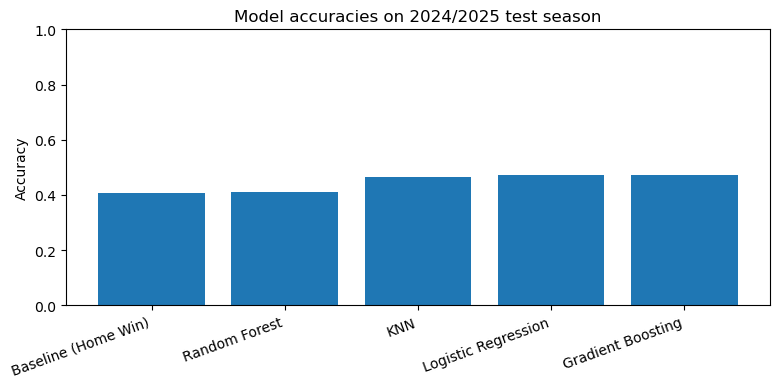
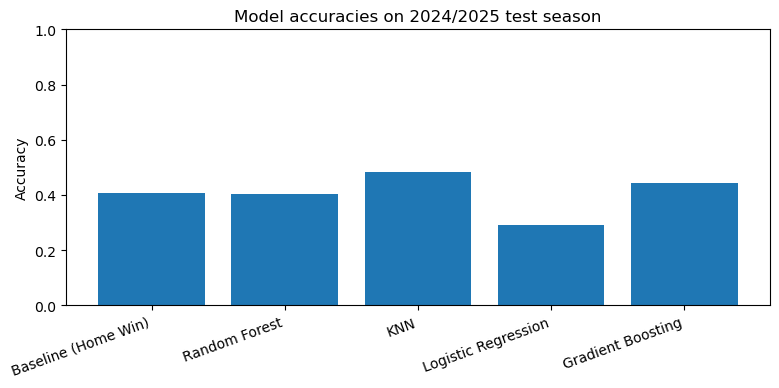
Re work of models.py to try to estimate better the draws

Changed region(s): [[0.4621, 0.433, 0.9551, 0.5876], [0.3081, 0.4948, 0.4313, 0.5258]]

diff --git a/src/models.py b/src/models.py
@@ -1,132 +1,219 @@
-"""Model definitions for Premier League match prediction."""
+"""
+Model definitions for Premier League match prediction.
 
-from typing import Any
+Objectif principal :
+- Garder une bonne accuracy globale
+- Mieux prendre en compte la classe 1 = "draw" (match nul)
+
+Stratégies :
+- class_weight pour RF & Logistic Regression (on booste les nuls)
+- léger oversampling des nuls pour Gradient Boosting
+- KNN avec standardisation + pondération par la distance
+"""
+
+from __future__ import annotations
+
+from collections import Counter
+from typing import Dict, Tuple
 
 import numpy as np
 from sklearn.ensemble import RandomForestClassifier, GradientBoostingClassifier
 from sklearn.linear_model import LogisticRegression
 from sklearn.neighbors import KNeighborsClassifier
+from sklearn.pipeline import Pipeline
+from sklearn.preprocessing import StandardScaler
+
+# -------------------------------------------------------------------
+# Hyperparamètres globaux
+# -------------------------------------------------------------------
+RANDOM_STATE = 42
+
+# facteur pour sur-pondérer les nuls (classe 1)
+# 1.0 = rien de spécial, 1.5–2.0 = on donne plus de poids aux nuls
+DRAW_BOOST = 1.8
 
 
+# -------------------------------------------------------------------
+# Utilitaires : class weights & oversampling des nuls
+# -------------------------------------------------------------------
+def compute_class_weights(y_train: np.ndarray, draw_boost: float = DRAW_BOOST) -> Dict[int, float]:
+    """
+    Calcule des poids de classe "balanced" puis sur-pondère la classe 1 (draw).
+
+    Retourne un dict du type {0: w_away, 1: w_draw, 2: w_home}.
+    """
+    counter = Counter(y_train)
+    classes = sorted(counter.keys())
+    n_classes = len(classes)
+    n_samples = len(y_train)
+
+    # balanced : N / (k * n_c)
+    weights: Dict[int, float] = {}
+    for c in classes:
+        weights[c] = n_samples / (n_classes * counter[c])
+
+    # on booste un peu les nuls
+    if 1 in weights:
+        weights[1] *= draw_boost
+
+    return weights
+
+
+def oversample_draws(
+    X: np.ndarray,
+    y: np.ndarray,
+    factor: float = 1.5,
+    random_state: int = RANDOM_STATE,
+) -> Tuple[np.ndarray, np.ndarray]:
+    """
+    Duplique aléatoirement des matchs nuls pour que cette classe soit un peu plus présente.
+
+    factor = 1.5 => on ajoute ~50 % de matchs nuls en plus.
+    Si y contient très peu de nuls, l'effet est plus marqué.
+    """
+    rng = np.random.default_rng(random_state)
+
+    draw_mask = (y == 1)
+    n_draws = int(draw_mask.sum())
+    if n_draws == 0 or factor <= 1.0:
+        return X, y
+
+    n_extra = int((factor - 1.0) * n_draws)
+    if n_extra <= 0:
+        return X, y
+
+    X_draw = X[draw_mask]
+    y_draw = y[draw_mask]
+
+    idx = rng.integers(low=0, high=n_draws, size=n_extra, endpoint=False)
+    X_extra = X_draw[idx]
+    y_extra = y_draw[idx]
+
+    X_balanced = np.vstack([X, X_extra])
+    y_balanced = np.concatenate([y, y_extra])
+
+    return X_balanced, y_balanced
+
+
+# -------------------------------------------------------------------
+# 1. Random Forest
+# -------------------------------------------------------------------
 def train_random_forest(
     X_train: np.ndarray,
     y_train: np.ndarray,
-    random_state: int = 42,
+    random_state: int = RANDOM_STATE,
 ) -> RandomForestClassifier:
     """
-    Train a Random Forest classifier on the training data.
+    Train a Random Forest classifier.
 
-    Parameters
-    ----------
-    X_train : np.ndarray
-        Matrix of training features (n_samples, n_features).
-    y_train : np.ndarray
-        Training labels (result_code: 0/1/2).
-    random_state : int
-        Seed for reproducibility.
-
-    Returns
-    -------
-    model : RandomForestClassifier
-        Fitted RandomForest model.
+    On utilise class_weight pour mieux prendre en compte la classe "draw".
     """
+    class_weight = compute_class_weights(y_train)
+
     model = RandomForestClassifier(
-        n_estimators=200,   # number of trees
-        max_depth=None,    # let trees grow fully
+        n_estimators=300,
+        max_depth=None,
+        min_samples_split=4,
+        min_samples_leaf=2,
         random_state=random_state,
-        n_jobs=-1,         # use all CPU cores
+        n_jobs=-1,
+        class_weight=class_weight,
     )
     model.fit(X_train, y_train)
     return model
 
 
+# -------------------------------------------------------------------
+# 2. KNN
+# -------------------------------------------------------------------
 def train_knn(
     X_train: np.ndarray,
     y_train: np.ndarray,
-    n_neighbors: int = 15,
-) -> KNeighborsClassifier:
+    n_neighbors: int = 25,
+) -> Pipeline:
     """
     Train a K-Nearest Neighbors classifier.
 
-    Parameters
-    ----------
-    X_train : np.ndarray
-        Training features.
-    y_train : np.ndarray
-        Training labels.
-    n_neighbors : int
-        Number of neighbours to use in KNN.
-
-    Returns
-    -------
-    model : KNeighborsClassifier
-        Fitted KNN model.
+    - Standardisation des features
+    - weights="distance" : les voisins proches comptent plus que les lointains
     """
-    model = KNeighborsClassifier(n_neighbors=n_neighbors)
+    model = Pipeline(
+        steps=[
+            ("scaler", StandardScaler()),
+            (
+                "knn",
+                KNeighborsClassifier(
+                    n_neighbors=n_neighbors,
+                    weights="distance",
+                    metric="minkowski",
+                    p=2,
+                ),
+            ),
+        ]
+    )
     model.fit(X_train, y_train)
     return model
 
 
+# -------------------------------------------------------------------
+# 3. Logistic Regression
+# -------------------------------------------------------------------
 def train_logistic_regression(
     X_train: np.ndarray,
     y_train: np.ndarray,
     max_iter: int = 1000,
-    random_state: int = 42,
-) -> LogisticRegression:
+    random_state: int = RANDOM_STATE,
+) -> Pipeline:
     """
-    Train a multinomial Logistic Regression classifier.
+    Multinomial Logistic Regression avec class_weight et standardisation.
 
-    We use multi_class='multinomial' because we have 3 classes:
-    away win (0), draw (1), home win (2).
+    On donne plus de poids à la classe 1 (draw) via compute_class_weights.
     """
-    model = LogisticRegression(
-        max_iter=max_iter,
-        multi_class="multinomial",
-        random_state=random_state,
+    class_weight = compute_class_weights(y_train)
+
+    model = Pipeline(
+        steps=[
+            ("scaler", StandardScaler()),
+            (
+                "logreg",
+                LogisticRegression(
+                    max_iter=max_iter,
+                    multi_class="multinomial",
+                    solver="lbfgs",
+                    class_weight=class_weight,
+                    random_state=random_state,
+                ),
+            ),
+        ]
     )
     model.fit(X_train, y_train)
     return model
 
 
+# -------------------------------------------------------------------
+# 4. Gradient Boosting
+# -------------------------------------------------------------------
 def train_gradient_boosting(
     X_train: np.ndarray,
     y_train: np.ndarray,
-    n_estimators: int = 200,
+    n_estimators: int = 300,
     learning_rate: float = 0.05,
     max_depth: int = 3,
-    random_state: int = 42,
+    random_state: int = RANDOM_STATE,
 ) -> GradientBoostingClassifier:
     """
     Train a Gradient Boosting classifier.
 
-    This is our "nonlinear" model alternative to Random Forest.
-
-    Parameters
-    ----------
-    X_train : np.ndarray
-        Training features.
-    y_train : np.ndarray
-        Training labels.
-    n_estimators : int
-        Number of boosting stages (trees).
-    learning_rate : float
-        Shrinks the contribution of each tree.
-    max_depth : int
-        Maximum depth of individual trees.
-    random_state : int
-        Seed for reproducibility.
-
-    Returns
-    -------
-    model : GradientBoostingClassifier
-        Fitted Gradient Boosting model.
+    Sklearn GradientBoostingClassifier ne gère pas class_weight, donc on fait
+    un léger oversampling des matchs nuls avant l'entraînement.
     """
+    X_balanced, y_balanced = oversample_draws(X_train, y_train, factor=1.6)
+
     model = GradientBoostingClassifier(
         n_estimators=n_estimators,
         learning_rate=learning_rate,
         max_depth=max_depth,
         random_state=random_state,
     )
-    model.fit(X_train, y_train)
+    model.fit(X_balanced, y_balanced)
     return model
-
